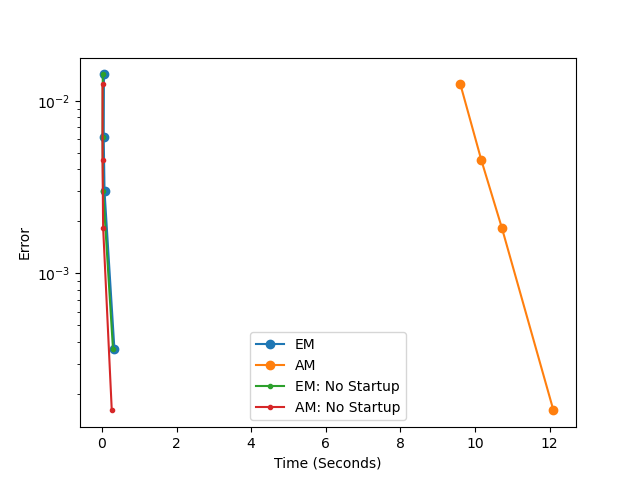
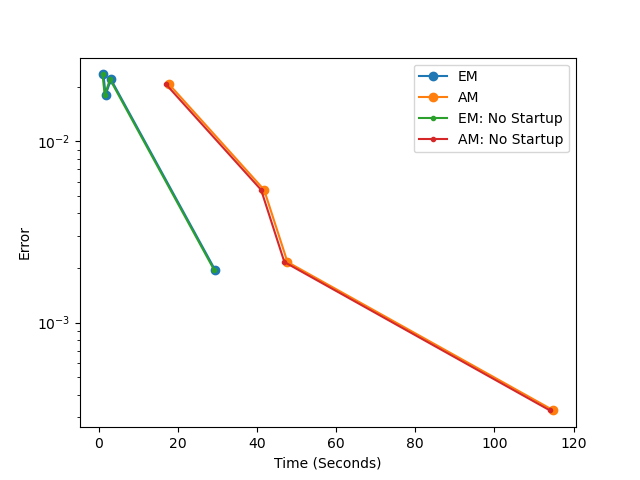
Compute single N2

diff --git a/Class_TimeDiscretizationMethod.py b/Class_TimeDiscretizationMethod.py
@@ -128,31 +128,27 @@ class AndersonMattinglyTimeDiscretizationMethod(TimeDiscretizationMethod):
             count1 = count1+1
         self.N2s = N2Complete2
 
-    # def computeN2s(self, pdf, sde, h):
-    #     N2Complete = []
-    #     count = 0
-    #     for yim1 in tqdm(pdf.meshCoordinates):
-    #         count = count+1
-    #         N2All = []
-    #         scale2 = GaussScale(sde.dimension)
-    #         if sde.spatialDiff == False:
-    #             sig2 = np.sqrt(self.a1*sde.diffusionFunction(self.meshAM[0])**2 - self.a2*sde.diffusionFunction(self.meshAM[0])**2)*np.sqrt((1-self.theta)*h)
-    #             scale2.setCov(sig2**2)
+    def computeN2(self, pdf, sde, h, yim1):
+        count1 = 0
+        s = np.size(self.meshAM,0)
+        N2Complete2 = np.zeros((s, pdf.meshLength))
 
-    #         mu2s = self.meshAM + (self.a1*sde.driftFunction(self.meshAM) - self.a2*sde.driftFunction(yim1))*(1-self.theta)*h
+        scale2 = GaussScale(sde.dimension)
+        if sde.spatialDiff == False:
+            sig2 = np.sqrt(self.a1*sde.diffusionFunction(self.meshAM[0])**2 - self.a2*sde.diffusionFunction(self.meshAM[0])**2)*np.sqrt((1-self.theta)*h)
+            scale2.setCov(sig2**2)
 
-
-    #         for count, i in enumerate(self.meshAM):
-    #             mu2 = mu2s[[count],:]
-    #             scale2.setMu(mu2.T)
-    #             if sde.spatialDiff == True:
-    #                 sig2 = np.sqrt(self.a1*sde.difffun(i)**2 - self.a2*sde.difffun(yim1)**2)*np.sqrt((1-self.theta)*h)
-    #                 scale2.setCov(sig2**2)
-    #             # N2 = Gaussian(scale2, pdf.meshCoordinates)
-    #             N2 = scale2.ComputeGaussian(pdf.meshCoordinates, sde)
-    #             N2All.append(np.copy(N2))
-    #         N2Complete.append(np.copy(N2All))
-    #     self.N2s = N2Complete
+        mu2s = self.meshAM + (self.a1*sde.driftFunction(self.meshAM) - self.a2*sde.driftFunction(yim1))*(1-self.theta)*h
+        for count, i in enumerate(self.meshAM):
+            mu2 = mu2s[[count],:]
+            scale2.setMu(mu2.T)
+            if sde.spatialDiff == True:
+                sig2 = np.sqrt(self.a1*sde.difffun(i)**2 - self.a2*sde.difffun(yim1)**2)*np.sqrt((1-self.theta)*h)
+                scale2.setCov(sig2**2)
+            # N2 = Gaussian(scale2, pdf.meshCoordinates)
+            N2 = scale2.ComputeGaussian(pdf.meshCoordinates, sde)
+            N2Complete2[count,:] = N2
+        return N2Complete2
 
 
     def computeN1(self, sde, yim1, h):
@@ -179,10 +175,11 @@ class AndersonMattinglyTimeDiscretizationMethod(TimeDiscretizationMethod):
         matrix = np.empty([sizeMatrix, sizeMatrix])*np.NaN
 
         self.setAndersonMattinglyMeshForComputingTransitionProbability(pdf, sde)
-        self.computeN2s(pdf, sde, h)
+        # self.computeN2s(pdf, sde, h)
         for j in trange(pdf.meshLength):
+            N2s = self.computeN2(pdf, sde, h, pdf.meshCoordinates[j])
             N1 = self.computeN1(sde, pdf.meshCoordinates[j], h)
-            N2s = self.N2s[j]
+            # N2s2 = self.N2s[j]
             val = self.meshSpacingAM**sde.dimension*N2s.T@np.expand_dims(N1,1)
             matrix[:,j] = np.squeeze(val)
         # matrix2 = np.empty([sizeMatrix, sizeMatrix])*np.NaN

diff --git a/Class_Gaussian.py b/Class_Gaussian.py
@@ -58,49 +58,17 @@ class GaussScale:
         if sde.dimension == 1:
             # mu = np.repeat(self.mu, len(mesh),axis = 0)
             norm = (mesh - self.mu)**2
-            const = 1/(np.sqrt((2*np.pi)**sde.dimension*abs(np.linalg.det(self.cov))))
+            if self.const == None:
+                const = 1/(np.sqrt((2*np.pi)**sde.dimension*abs(np.linalg.det(self.cov))))
             soln = np.squeeze(const*np.exp(-1/2*self.invCov*norm).T)
 
         if sde.dimension >1:
-            # norm = np.subtract(mesh,self.mu.T)
-            # norm1 = norm[:,0]
-            # norm2 = norm[:,1]
-            # norm12 = norm1*norm2
-            # norm1 = np.subtract(mesh[:,0],self.mu[0])
-            # norm2 = np.subtract(mesh[:,1],self.mu[1])
-            # norm1 = mesh[:,0]-self.mu[0]
-            # norm2 = mesh[:,1]-self.mu[1]
-            # norm12 = norm1*norm2
             if self.const == None:
                 const = 1/(np.sqrt((2*np.pi)**sde.dimension*abs(np.linalg.det(self.cov))))
                 self.const = const
-            # soln = self.const*np.exp(-1/2*self.invCov[0,0]*norm1**2-1/2*self.invCov[0,1]*norm12-1/2*self.invCov[0,1]*norm12-1/2*self.invCov[1,0]*norm12-1/2*self.invCov[1,1]*norm2**2).T
 
-            # # write Sigma^{-1} as R.T @ R
-            # # So outside this function:
-            # self.invCovR = 1/np.sqrt(2)*np.linalg.cholesky(self.invCov, 'lower').T
-
-            # # then x.T @ Sigma^{-1} @ x = norm(y)**2, y = R @ x
-            # soln = self.const * np.exp(-np.linalg.norm((R @ (mesh.T - self.mu).T, axis=1)**2)
-            # diff = (mesh.T - self.mu)
-            # soln = self.const * np.exp(-1*np.linalg.norm(self.invCovR @ diff, axis=0)**2)
-
-            # rv = multivariate_normal(self.mu.T[0], self.cov)
-            # soln_vals = np.asarray([rv.pdf(mesh)]).T
-            # soln= np.squeeze(soln_vals)
-
-        # else:
-            # const = 1/(np.sqrt((2*np.pi)**sde.dimension*abs(np.linalg.det(self.cov))))
-            # diff = np.subtract(mesh,self.mu.T)
-            # val = diff@self.invCov@diff.T
-            # val = np.diagonal(val)
-            # soln = const*np.exp(-1/2*val).T
             diff = (mesh.T - self.mu)
             step1 = self.invCovR @ diff
-            # s = (step1.conj() * step1).real
-            # step2 = np.squeeze(np.sqrt(np.add.reduce(s, axis=0, keepdims=True)))
-            # step2 = np.linalg.norm(step1, axis=0)
-            # step3 = -1 * step2 ** 2
             step2and3 = -1 * self.normSpecialSquared(step1, axis=0)
             step4 = np.exp(step2and3)
             step5 = self.const * step4

diff --git a/CompareAMandEM.py b/CompareAMandEM.py
@@ -11,7 +11,7 @@ import time
 dimension = 2
 if dimension ==1:
     beta = 3
-    radius =15
+    radius =4
     kstepMin= 0.06
     kstepMax = 0.065
     # h = 0.01
@@ -19,7 +19,7 @@ if dimension ==1:
 
 if dimension ==2:
     beta = 3
-    radius =3
+    radius =2
     kstepMin= 0.08
     kstepMax = 0.09
     h = 0.05
@@ -49,18 +49,18 @@ timesEM = []
 timesNoStartupEM = []
 timesNoStartupAM = []
 
-adaptive = False
-integrationType = "TR"
+adaptive = True
+integrationType = "LQ"
 
 ApproxSolution =False
 
 
 sde = SDE(dimension, driftFunction, diffusionFunction, spatialDiff)
 if ApproxSolution:
-    meshApprox, pdfApprox = sde.ApproxExactSoln(endTime,4, 0.005)
+    meshApprox, pdfApprox = sde.ApproxExactSoln(endTime,2.5, 0.005)
 
 
-hvals = [0.01, 0.1, 0.2, 0.3]
+hvals = [0.01, 0.1, 0.2]
 for h in hvals:
     parametersEM = Parameters(sde, beta, radius, kstepMin, kstepMax, h,useAdaptiveMesh =adaptive, timeDiscretizationType = "EM", integratorType=integrationType)
     startEM = time.time()

diff --git a/DTQAdaptive.py b/DTQAdaptive.py
@@ -7,15 +7,15 @@ import matplotlib.pyplot as plt
 import DriftDiffusionFunctionBank as functionBank
 import time
 
-dimension =2
+dimension =1
 
 if dimension ==1:
     beta = 4
-    radius = 3
+    radius = 20
     kstepMin= 0.06
     kstepMax = 0.07
     h = 0.01
-    endTime =1
+    endTime =0
 
 if dimension ==2:
     beta = 3
@@ -42,7 +42,7 @@ diffusionFunction = functionBank.oneDiffusion
 
 spatialDiff = False
 sde = SDE(dimension, driftFunction, diffusionFunction, spatialDiff)
-parameters = Parameters(sde, beta, radius, kstepMin, kstepMax, h, useAdaptiveMesh =True, timeDiscretizationType = "EM", integratorType = "TR")
+parameters = Parameters(sde, beta, radius, kstepMin, kstepMax, h, useAdaptiveMesh =True, timeDiscretizationType = "AM", integratorType = "TR")
 simulation = Simulation(sde, parameters, endTime)
 start = time.time()
 simulation.computeAllTimes(sde, simulation.pdf, parameters)
